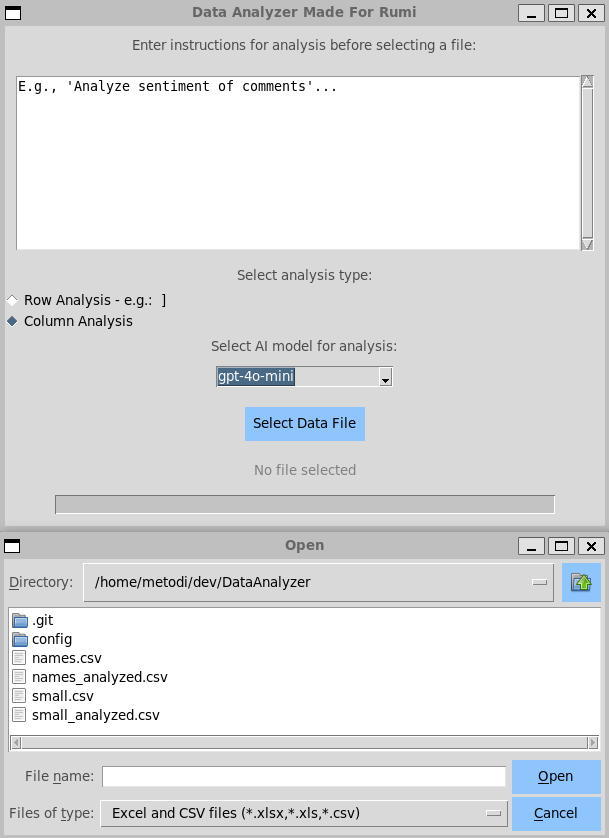
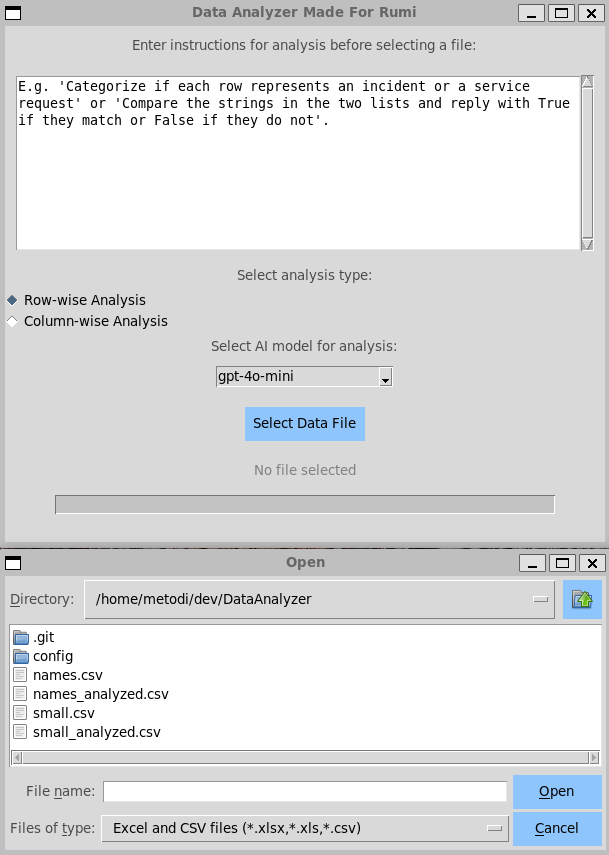
ui screenshot update

diff --git a/app.py b/app.py
@@ -69,7 +69,7 @@ class ExcelAnalyzerApp(tk.Tk):
 
         # Instruction Entry Box with Scroll
         self.instruction_entry = ScrolledText(self, height=10, width=70, wrap=tk.WORD)
-        self.instruction_entry.insert(tk.INSERT, "E.g. 'Review these text columns and categorize if each row represents an incident or a service request' or 'Compare the strings in the two lists and reply with True if they match or False if they do not'.")
+        self.instruction_entry.insert(tk.INSERT, "E.g. 'Categorize if each row represents an incident or a service request' or 'Compare the strings in the two lists and reply with True if they match or False if they do not'.")
         self.instruction_entry.pack(pady=10)
 
         # Analysis Type Label
